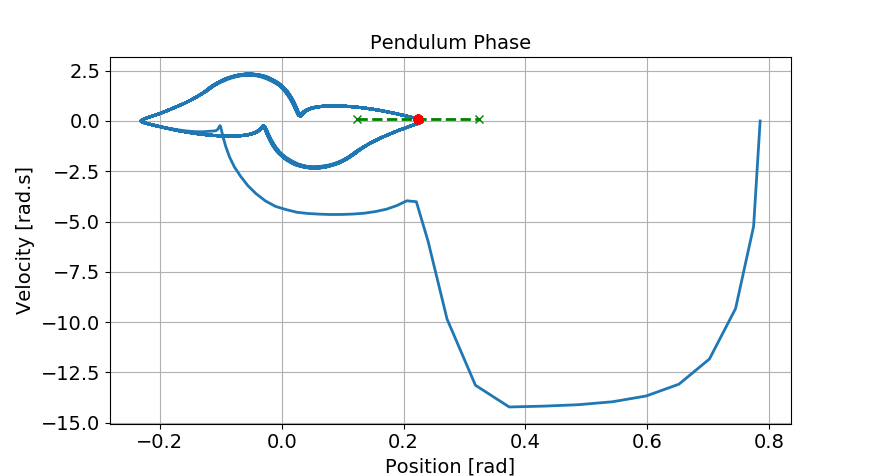
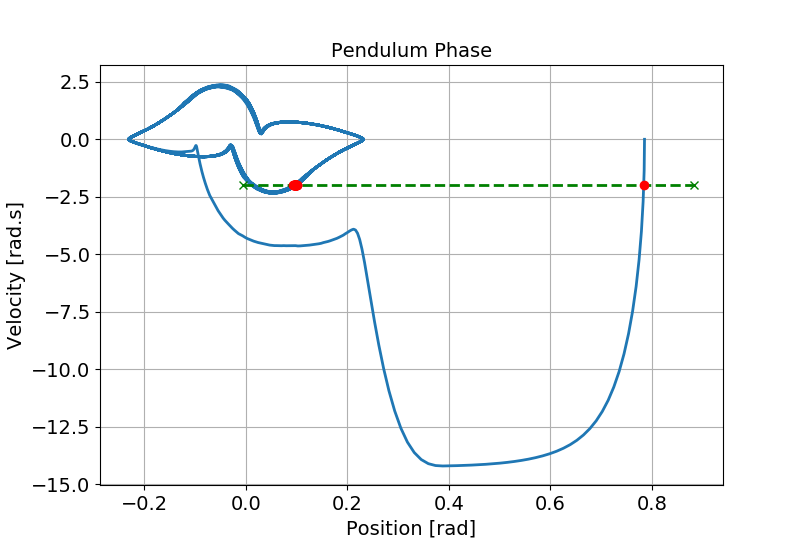
modified plotting for 2b

diff --git a/Lab6/Python/exercise2.py b/Lab6/Python/exercise2.py
@@ -89,16 +89,16 @@ def exercise2():
     ############Exercise 2A ###############################################
     # rigth after creating and attaching both muscles:
     
-#    print(m1_origin, m2_origin)
-#    m1a1 =abs( abs(m1_origin[0]) - abs(m1_origin[1]))
-#    m1a2 =abs( abs(m1_insertion[0]) - abs(m1_insertion[1]))
-#    m1a1 = m1_origin[0] - m1_origin[1]
-#    m1a2 = m1_insertion[0] - m1_insertion[1]
-#    m2a1 = m2_origin[0] - m2_origin[1]
-#    m2a2 = m2_insertion[0] - m2_insertion[1]
-#    print(m1a1, m1a2)
-#    fromtheta(m1a1, m1a2, 1)
-#    fromtheta(m2a1, m2a2, 2)
+    print(m1_origin, m2_origin)
+    m1a1 =abs( abs(m1_origin[0]) - abs(m1_origin[1]))
+    m1a2 =abs( abs(m1_insertion[0]) - abs(m1_insertion[1]))
+    m1a1 = m1_origin[0] - m1_origin[1]
+    m1a2 = m1_insertion[0] - m1_insertion[1]
+    m2a1 = m2_origin[0] - m2_origin[1]
+    m2a2 = m2_insertion[0] - m2_insertion[1]
+    print(m1a1, m1a2)
+    fromtheta(m1a1, m1a2, 1)
+    fromtheta(m2a1, m2a2, 2)
     
     #######################################################################
   
@@ -110,8 +110,8 @@ def exercise2():
     sys.add_muscle_system(muscles)  # Add the muscle model to the system
 
     ##### Time #####
-    t_max = 5  # Maximum simulation time
-    time = np.arange(0., t_max, 0.004)  # Time vector
+    t_max = 40  # Maximum simulation time
+    time = np.arange(0., t_max, 0.001)  # Time vector
 
     ##### Model Initial Conditions #####
     x0_P = np.array([np.pi/4, 0.])  # Pendulum initial condition
@@ -195,7 +195,7 @@ def exercise2():
     plt.ylabel('Velocity [rad.s]')
     plt.grid()
 
-    poincare_crossings(res, 0.1, 1, "Pendulum")
+    poincare_crossings(res, -2, 1, "Pendulum")
 
     # To animate the model, use the SystemAnimation class
     # Pass the res(states) and systems you wish to animate
